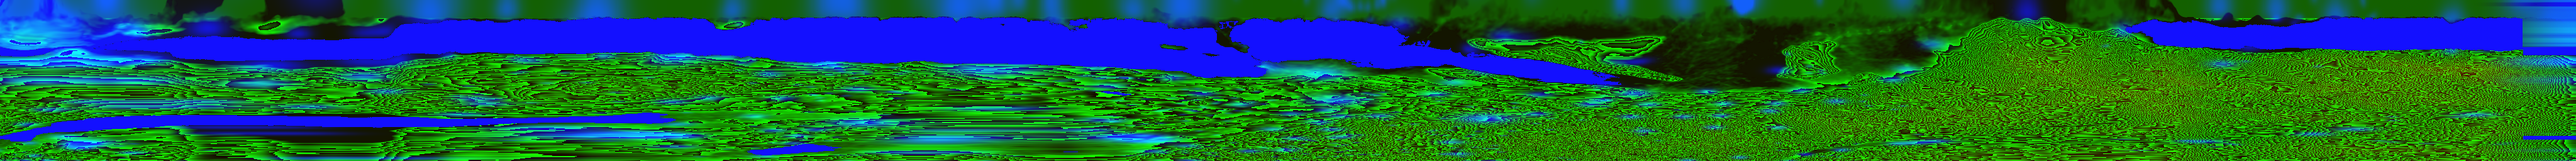
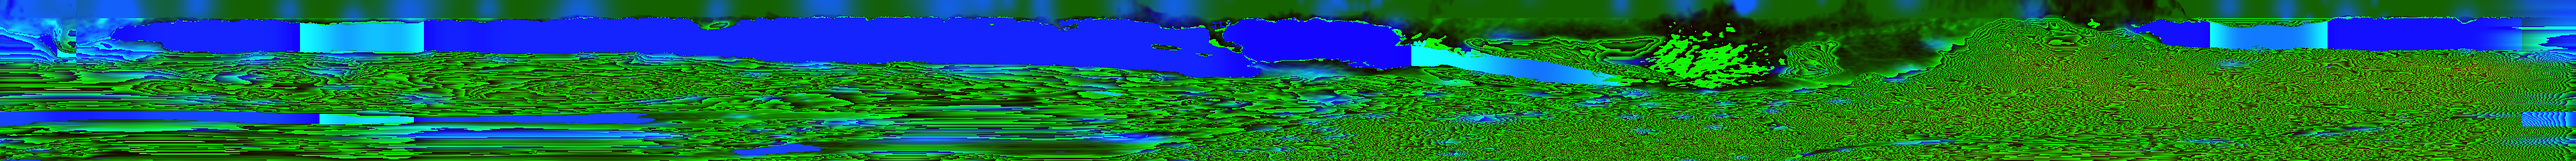
Train Ride: route rebuilt from OSM and Terrarium with a robust rail level; lakes at their surface; opens clear

diff --git a/trainride/index.html b/trainride/index.html
@@ -78,8 +78,8 @@ playIntro({ ready: Promise.all([loaded, document.fonts.ready, Promise.race([firs
 const saved = k => { try { return localStorage.getItem(`stimming.trainride.${k}`); } catch { return null; } };
 const save = (k, v) => { try { localStorage.setItem(`stimming.trainride.${k}`, String(v)); } catch { /* storage is optional */ } };
 const opts = {
-  // The weather is new on every load: rain most often, clear least.
-  mode: ['drizzle', 'rain', 'rain', 'downpour', 'mist', 'fog', 'clear'][Math.floor(Math.random() * 7)],
+  // The ride opens clear; Drift then moves the weather on by itself.
+  mode: 'clear',
   drift: saved('drift') !== '0',
   express: saved('express') === '1',
   wet: saved('wet') || '1',
@@ -2084,7 +2084,7 @@ renderer.toneMappingExposure = 1.0;
 
 /* ---------- route ---------- */
 // The line from Zurich HB to Murg, traced on OpenStreetMap rails.
-// tools/cut.py cut the map at Murg and closed the loop.
+// tools/fetch.sh, track.py and build.py bake it; the last 3 km loop back to the start.
 // Heights come from the Terrarium tiles (Mapzen, AWS Open Data).
 // route.png: R and G hold the height in decimetres plus 500 m.
 // B is 255 on a lake, else town density up to 250.
@@ -2388,9 +2388,9 @@ S.setExpress(opts.express);
 S.setMode(opts.mode, true);
 S.setSpeed(cruise(opts.speed));
 S.setTime(opts.time, true);
-// Drift: the weather steps to a neighbour every two to five minutes.
+// Drift: the weather steps to a neighbour every one to three minutes.
 const time0 = () => performance.now() / 1000;
-const driftGap = () => 120 + Math.random() * 180;
+const driftGap = () => 70 + Math.random() * 110;
 let driftAt = time0() + driftGap();
 setInterval(() => {
   if (!opts.drift || document.hidden || time0() < driftAt) return;

diff --git a/trainride/tools/build.py b/trainride/tools/build.py
@@ -90,7 +90,16 @@ px, py = merc(lat, lon)
 hg = bil(dem, px, py); wg = bil(wet, px, py); dg = bil(dens, px / 4, py / 4) * (1 - np.clip(wg * 2, 0, 1))
 # The eye rides 6 m above the smoothed rail level.
 j0 = int(np.argmin(np.abs(tj)))
-rail = smooth(np.interp(s10, ss, hg[:, j0 + 2]), 300); rail = np.interp(ss, s10, rail)
+# The DEM shows the hill above a tunnel, not the rails.
+# So the rail level is the lowest ground near the line over 800 m, smoothed,
+# and held within 15 m of each stretch's floor.
+near = hg[:, max(0, j0 - 3):j0 + 4].min(axis=1)
+rm = np.interp(s10, ss, near)
+K8 = int(400 / 10)
+low = np.array([rm[max(0, i - K8):i + K8 + 1].min() for i in range(len(rm))])
+# The line runs 4 to 10 m above each lake: a floor per stretch keeps the lakes below the eye.
+floor = np.where(s10 < 34000, 410.0, np.where(s10 < 56500, 413.0, 425.0))
+rail = smooth(np.clip(low, floor, floor + 15.0), 300); rail = np.interp(ss, s10, rail)
 rel = hg - rail[:, None] - 6.0
 # Cuttings and tunnels: nothing near the line rises above the sill.
 lim = np.where(tj < 0, -4.0, -3.0 + np.maximum(tj - 25.0, 0) * 0.7)
@@ -106,10 +115,19 @@ img = np.zeros((NT, NS, 3), np.uint8)
 img[..., 0] = (q >> 8).T; img[..., 1] = (q & 255).T
 img[..., 2] = np.where(wg.T > 0.5, 255, np.clip(np.round(dg.T * 250), 0, 250)).astype(np.uint8)
 Image.fromarray(img).save('route.png', optimize=True)
-st = [(n, round(float(s), 1)) for n, s in tr['stations']]
+# Each station sits where the resampled track passes closest to it; positions are route metres.
+st = []
+for n, _ in tr['stations']:
+    if n == 'Unterterzen': continue
+    la, lo = tr['coords'][n]
+    e0 = (lo - 9.0) * cl * math.pi / 180 * R; n0 = (la - 47.25) * math.pi / 180 * R
+    k = int(np.argmin((E10 - e0) ** 2 + (N10 - n0) ** 2))
+    st.append((n, round(float(s10[k]), 1)))
 meta = {'L': round(float(L), 1), 'NS': NS, 'NT': NT, 'b': b, 'stations': st}
 json.dump(meta, open('route-meta.json', 'w'), ensure_ascii=False)
 print('L', L, 'rel range', rel.min(), rel.max(), 'water frac', (wg > 0.5).mean(), 'dens mean', dg.mean())
+wm = wg > 0.5
+print('lake rel: min', rel[wm].min() if wm.any() else None, 'max', rel[wm].max() if wm.any() else None, 'p5', np.percentile(rel[wm], 5) if wm.any() else None)
 print(json.dumps(meta, ensure_ascii=False)[:600])
 # Places in route coordinates: the nearest grid sample to each town or village.
 sub = (slice(None, None, 2), slice(None, None, 2))

diff --git a/trainride/tools/track.py b/trainride/tools/track.py
@@ -8,11 +8,12 @@ for e in d['elements']:
         if n: st.setdefault(n, (e['lat'], e['lon']))
     elif e['type'] == 'way':
         ways.append([(p['lat'], p['lon']) for p in e['geometry']])
-seq = ['Zürich HB', 'Zürich Enge', 'Zürich Wollishofen', 'Kilchberg', 'Rüschlikon', 'Thalwil', 'Oberrieden', 'Horgen', 'Au ZH', 'Wädenswil', 'Richterswil', 'Bäch', 'Freienbach SBB', 'Pfäffikon SZ', 'Altendorf', 'Lachen', 'Siebnen-Wangen', 'Reichenburg', 'Bilten', 'Ziegelbrücke', 'Weesen', 'Mühlehorn', 'Murg', 'Unterterzen', 'Walenstadt']
-for s in seq:
-    print(s, st.get(s) or [k for k in st if s.split()[0] in k][:5])
-
-seq = ['Zürich Hauptbahnhof', 'Zürich Enge', 'Zürich Wollishofen', 'Kilchberg', 'Rüschlikon', 'Thalwil', 'Oberrieden', 'Horgen', 'Wädenswil', 'Richterswil', 'Bäch SZ', 'Freienbach SBB', 'Pfäffikon SZ', 'Altendorf', 'Lachen SZ', 'Siebnen-Wangen', 'Reichenburg', 'Bilten', 'Ziegelbrücke', 'Weesen', 'Mühlehorn', 'Murg', 'Unterterzen', 'Walenstadt']
+# OSM names: Au ZH is "Au"; Weesen survives only as a disused stop node.
+if 'Au' in st: st.setdefault('Au ZH', st['Au'])
+st.setdefault('Weesen', (47.1298274, 9.0944397))
+seq = ['Zürich Hauptbahnhof', 'Zürich Wiedikon', 'Zürich Enge', 'Zürich Wollishofen', 'Kilchberg', 'Rüschlikon', 'Thalwil', 'Oberrieden', 'Horgen', 'Au ZH', 'Wädenswil', 'Richterswil', 'Bäch SZ', 'Freienbach SBB', 'Pfäffikon SZ', 'Altendorf', 'Lachen SZ', 'Siebnen-Wangen', 'Schübelbach-Buttikon', 'Reichenburg', 'Bilten', 'Ziegelbrücke', 'Weesen', 'Mühlehorn', 'Murg', 'Unterterzen']
+missing = [s for s in seq if s not in st]
+if missing: print('MISSING', missing, [k for k in st if any(m.split()[0] in k for m in missing)][:20]); raise SystemExit(1)
 R = 6371000.0
 def xy(p):  # local metres around the area centre
     return ((p[1] - 9.0) * math.cos(math.radians(47.25)) * math.pi / 180 * R, (p[0] - 47.25) * math.pi / 180 * R)
@@ -61,6 +62,6 @@ for s0, s1 in zip(seq, seq[1:]):
     total += L
     stations.append((s1, total))
     print(f'{s1:22s} {total/1000:7.2f} km  (+{L/1000:.2f})')
-json.dump({'pts': pts, 'stations': stations}, open('dem/track.json', 'w'))
+json.dump({'pts': pts, 'stations': stations, 'coords': {n: st[n] for n in seq}}, open('dem/track.json', 'w'))
 lats = [p[0] for p in pts]; lons = [p[1] for p in pts]
 print(len(pts), min(lats), max(lats), min(lons), max(lons))

diff --git a/.beans/stimming-6z3j--toy-train-ride.md b/.beans/stimming-6z3j--toy-train-ride.md
@@ -5,7 +5,7 @@ status: in-progress
 type: feature
 priority: normal
 created_at: 2026-11-08T11:02:11Z
-updated_at: 2026-11-09T21:15:00Z
+updated_at: 2026-11-09T21:30:00Z
 ---
 
 Lab toy grown from viaduct/protos/window.html: a night valley seen through one carriage window on a high viaduct, with rain and breath on the glass.
@@ -139,3 +139,10 @@ Lab toy grown from viaduct/protos/window.html: a night valley seen through one c
 - [ ] Far cliff shores still show the coarse far mesh as small teeth
 - [x] Inset: no glow on the wall round the window; the recess darkens toward the glass, a lit bevel at the wall edge, a contact shadow on the glass by the frame
 - [x] Water only on flat ground, so the coarse lake mask never paints a cliff; far land takes per-pixel normals; far vertices filter their height
+
+## Round 17: route rebuilt from OSM (Tom, 2026-11-09)
+- [x] tools/fetch.sh pulls 425 Terrarium tiles and OSM rails, stations, lakes and places; track.py traces Zurich HB to Murg (plus 3 km to Unterterzen for the loop); build.py bakes route.png and route.json
+- [x] 25 stations, Zürich Wiedikon added; "Au ZH" is "Au" in OSM; Weesen comes from its disused stop node
+- [x] Lake bug found: the rail level came from the ground beside the track, which in tunnels is the hill above; lakes sank up to 240 m. Now the rail level is the lowest near ground over 800 m, held to a band per stretch, so lakes sit 10 to 25 m below the eye
+- [x] Default weather Clear; Drift moves it every one to three minutes
+- [x] cut.py and lakes.py removed
